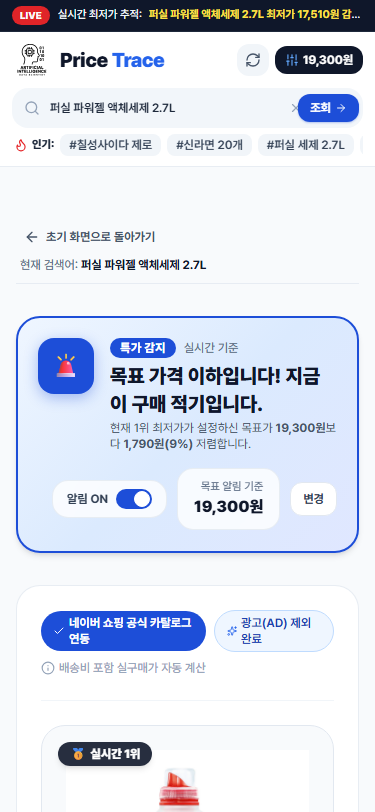
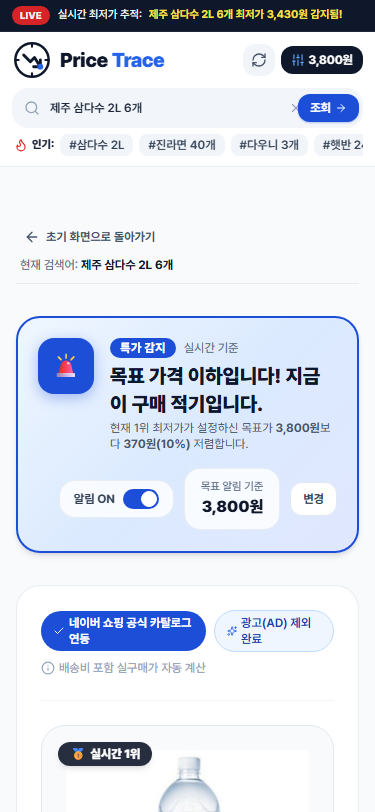
design: 헤더 및 푸터 브랜드 로고를 직관적인 단순화 레이더·최저가 화살표 심볼로 교체
- 복잡한 AI 두뇌/칩셋 아이콘을 '최저가 추적' 정체성에 맞춘 미니멀 레이더 심볼로 전면 교체
- 절제된 4방위 조준 틱, 볼드한 가격 급락 트렌드 화살표, 실시간 최저가 포착 블루 도트 적용
- 헤더 및 푸터 인라인 SVG 벡터 동기화 및 33개 E2E QA 전수 검사 100% 통과 검증

diff --git a/public/index.html b/public/index.html
@@ -85,9 +85,20 @@
       <!-- 상단 줄: [브랜드 로고] + [모바일 전용 우측 컨트롤 버튼들] -->
       <div class="flex items-center justify-between w-full md:w-auto shrink-0">
         <a href="/" class="flex items-center space-x-2 sm:space-x-3 group shrink-0">
-          <svg xmlns="http://www.w3.org/2000/svg" viewBox="0 0 2048 2048" class="w-10 h-10 sm:w-12 sm:h-12 md:w-14 md:h-14 object-contain group-hover:scale-105 transition-transform shrink-0" fill="#000000">
-  <path fillRule="evenodd" clipRule="evenodd" d="M1033.0 1256.5L1021.0 1254.5L1015.5 1250.0L1013.5 1246.0L1013.5 1228.0L1021.5 1186.0L1029.5 1158.0L1039.5 1136.0L1048.5 1123.0L1063.0 1109.5L1082.0 1099.5L1104.0 1094.5L1137.0 1095.5L1196.0 1101.5L1246.0 1101.5L1267.0 1094.5L1277.5 1085.0L1284.5 1071.0L1286.5 1056.0L1279.5 1015.0L1279.5 1003.0L1285.5 987.0L1298.5 971.0L1303.5 961.0L1301.5 951.0L1291.5 935.0L1291.5 929.0L1298.0 921.5L1306.0 916.5L1315.5 906.0L1314.5 900.0L1302.5 871.0L1301.5 861.0L1304.5 850.0L1314.0 838.5L1323.0 832.5L1347.0 823.5L1363.0 819.5L1373.0 814.5L1379.5 807.0L1380.5 800.0L1374.5 786.0L1350.5 750.0L1304.5 674.0L1289.5 643.0L1285.5 622.0L1286.5 601.0L1289.5 582.0L1289.5 541.0L1281.5 494.0L1273.5 467.0L1262.5 439.0L1251.5 417.0L1230.5 383.0L1210.5 358.0L1190.0 336.5L1152.0 306.5L1113.0 283.5L1075.0 267.5L1038.0 255.5L993.0 246.5L965.0 243.5L902.0 243.5L879.0 245.5L832.0 253.5L794.0 263.5L764.0 274.5L735.0 287.5L709.0 301.5L668.0 329.5L655.0 340.5L625.5 370.0L603.5 398.0L589.5 420.0L571.5 454.0L561.5 478.0L549.5 518.0L541.5 574.0L541.5 642.0L545.5 677.0L549.5 695.0L561.5 734.0L581.5 778.0L600.5 810.0L635.5 860.0L649.5 883.0L661.5 908.0L671.5 940.0L675.5 963.0L677.5 993.0L673.5 1047.0L671.5 1053.0L671.5 1063.0L663.5 1108.0L643.5 1185.0L625.5 1240.0L621.5 1248.0L613.0 1255.5L595.0 1255.5L585.5 1248.0L583.5 1243.0L585.5 1230.0L606.5 1169.0L627.5 1085.0L635.5 1034.0L636.5 984.0L629.5 940.0L621.5 917.0L606.5 889.0L565.5 830.0L546.5 798.0L530.5 765.0L512.5 713.0L503.5 669.0L500.5 631.0L501.5 565.0L505.5 534.0L511.5 505.0L517.5 483.0L532.5 442.0L541.5 423.0L559.5 392.0L572.5 373.0L597.5 342.0L633.0 306.5L657.0 287.5L685.0 268.5L726.0 246.5L772.0 227.5L813.0 215.5L837.0 210.5L889.0 203.5L945.0 202.5L1000.0 206.5L1056.0 218.5L1103.0 234.5L1145.0 255.5L1192.0 286.5L1231.5 322.0L1257.5 353.0L1274.5 377.0L1291.5 407.0L1306.5 440.0L1319.5 479.0L1327.5 518.0L1327.5 529.0L1329.5 539.0L1329.5 584.0L1327.5 595.0L1328.5 631.0L1338.5 655.0L1391.5 743.0L1401.5 757.0L1416.5 785.0L1419.5 795.0L1419.5 810.0L1417.5 818.0L1407.5 836.0L1399.0 844.5L1389.0 850.5L1356.0 861.5L1347.5 868.0L1346.5 873.0L1355.5 901.0L1355.5 911.0L1349.5 926.0L1339.5 937.0L1345.5 955.0L1343.5 971.0L1336.5 985.0L1323.5 1002.0L1320.5 1010.0L1321.5 1030.0L1324.5 1042.0L1324.5 1069.0L1318.5 1092.0L1307.5 1111.0L1298.0 1120.5L1284.0 1130.5L1269.0 1137.5L1245.0 1143.5L1202.0 1143.5L1195.0 1141.5L1162.0 1139.5L1124.0 1134.5L1099.0 1135.5L1091.0 1138.5L1079.5 1148.0L1073.5 1157.0L1065.5 1174.0L1057.5 1203.0L1050.5 1245.0L1043.0 1254.5L1033.0 1256.5Z M1470.0 479.5L1453.0 479.5L1439.0 475.5L1431.0 470.5L1418.5 456.0L1413.5 444.0L1411.5 434.0L1411.5 374.0L1413.5 363.0L1417.5 353.0L1426.5 340.0L1438.0 331.5L1449.0 327.5L1473.0 327.5L1486.0 332.5L1500.5 345.0L1505.5 354.0L1509.5 367.0L1510.5 428.0L1508.5 444.0L1500.5 461.0L1490.0 471.5L1483.0 475.5L1470.0 479.5Z M1609.0 475.5L1589.0 475.5L1583.5 471.0L1583.5 368.0L1581.0 367.5L1564.0 377.5L1560.0 376.5L1555.5 370.0L1556.5 347.0L1591.0 327.5L1609.0 328.5L1613.5 332.0L1615.5 337.0L1615.5 470.0L1613.0 473.5L1609.0 475.5Z M1465.5 448.0L1470.0 446.5L1473.5 443.0L1477.5 430.0L1477.5 373.0L1472.5 361.0L1466.0 356.5L1461.0 355.5L1452.0 358.5L1445.5 369.0L1444.5 427.0L1445.5 436.0L1449.0 442.5L1455.0 447.5L1465.5 448.0Z M994.0 869.5L982.0 866.5L975.5 860.0L973.5 855.0L973.5 791.0L972.0 789.5L928.0 789.5L926.5 791.0L926.5 854.0L924.5 860.0L918.0 866.5L910.0 869.5L904.0 869.5L895.0 865.5L890.5 861.0L888.5 856.0L887.5 791.0L886.0 789.5L842.0 789.5L841.5 855.0L837.5 862.0L831.0 867.5L825.0 869.5L815.0 868.5L810.5 866.0L803.5 857.0L803.0 790.5L768.0 789.5L756.0 785.5L745.0 778.5L736.5 770.0L727.5 753.0L725.5 743.0L725.0 716.5L667.0 716.5L658.0 713.5L650.5 705.0L650.5 690.0L653.5 685.0L661.0 679.5L725.5 678.0L725.0 634.5L661.0 633.5L654.5 629.0L650.5 622.0L649.5 610.0L652.5 603.0L663.0 594.5L725.0 594.5L726.5 558.0L726.5 550.0L725.0 548.5L668.0 549.5L660.0 547.5L655.5 544.0L650.5 536.0L650.5 522.0L658.0 512.5L665.0 509.5L725.0 509.5L727.5 477.0L733.5 463.0L745.0 449.5L763.0 439.5L773.0 437.5L801.0 437.5L801.5 374.0L803.5 370.0L811.0 362.5L815.0 360.5L828.0 360.5L834.0 363.5L840.5 372.0L842.0 437.5L887.5 437.0L887.5 374.0L890.5 368.0L895.0 363.5L904.0 359.5L913.0 360.5L918.0 363.5L923.5 369.0L925.5 374.0L925.5 437.0L971.0 437.5L973.5 371.0L979.0 364.5L986.0 360.5L995.0 359.5L1001.0 361.5L1009.5 369.0L1011.5 375.0L1011.5 437.0L1013.0 438.5L1032.0 437.5L1050.0 440.5L1059.0 444.5L1069.0 451.5L1078.5 462.0L1084.5 473.0L1087.5 483.0L1089.0 509.5L1145.0 509.5L1153.0 512.5L1159.5 520.0L1161.5 526.0L1160.5 536.0L1156.5 542.0L1150.0 547.5L1142.0 549.5L1088.5 549.0L1089.0 594.5L1148.0 594.5L1157.5 602.0L1161.5 611.0L1161.5 617.0L1158.5 625.0L1149.0 633.5L1089.0 633.5L1088.5 678.0L1152.0 679.5L1160.5 687.0L1162.5 691.0L1162.5 704.0L1154.0 714.5L1149.0 716.5L1089.0 715.5L1087.5 717.0L1088.5 732.0L1085.5 753.0L1079.5 765.0L1067.0 778.5L1055.0 785.5L1041.0 789.5L1013.0 789.5L1011.5 791.0L1011.5 856.0L1003.0 866.5L994.0 869.5Z M1030.5 753.0L1038.0 751.5L1043.0 748.5L1047.5 740.0L1047.5 489.0L1043.5 481.0L1035.0 475.5L776.0 475.5L772.0 477.5L765.5 485.0L764.5 497.0L764.5 682.0L766.5 745.0L773.0 751.5L781.0 753.5L1030.5 753.0Z M967.0 716.5L846.0 716.5L839.0 715.5L830.0 711.5L814.5 698.0L808.5 687.0L805.5 676.0L805.5 557.0L811.5 540.0L825.0 524.5L836.0 518.5L848.0 515.5L963.0 515.5L973.0 517.5L984.0 522.5L992.0 528.5L999.5 537.0L1007.5 555.0L1007.5 678.0L1001.5 693.0L991.0 705.5L977.0 714.5L967.0 716.5Z M1597.0 673.5L1582.0 673.5L1573.0 671.5L1559.0 663.5L1552.5 657.0L1545.5 644.0L1542.5 635.0L1540.5 619.0L1540.5 574.0L1541.5 562.0L1546.5 545.0L1552.5 535.0L1563.0 525.5L1578.0 519.5L1587.0 518.5L1601.0 519.5L1610.0 522.5L1620.0 528.5L1630.5 541.0L1635.5 553.0L1637.5 563.0L1637.5 626.0L1633.5 643.0L1626.5 656.0L1617.0 665.5L1606.0 671.5L1597.0 673.5Z M1477.0 667.5L1455.0 667.5L1452.5 666.0L1449.5 660.0L1449.5 561.0L1429.0 571.5L1426.0 570.5L1421.5 564.0L1421.5 544.0L1426.0 539.5L1441.0 530.5L1459.0 521.5L1464.0 520.5L1472.0 520.5L1477.0 522.5L1480.5 526.0L1482.5 531.0L1482.5 660.0L1480.5 665.0L1477.0 667.5Z M1592.5 643.0L1598.0 641.5L1602.5 637.0L1605.5 629.0L1606.5 570.0L1605.5 562.0L1600.5 552.0L1594.0 548.5L1586.0 548.5L1579.5 552.0L1574.5 563.0L1573.5 621.0L1577.5 637.0L1584.0 642.5L1592.5 643.0Z M901.5 679.0L962.0 678.5L968.5 672.0L969.5 564.0L966.5 557.0L962.0 552.5L853.0 551.5L848.0 553.5L844.5 558.0L844.5 673.0L850.0 678.5L857.0 679.5L901.5 679.0Z M1605.0 876.5L1581.0 875.5L1564.0 866.5L1557.5 860.0L1551.5 849.0L1546.5 824.0L1546.5 773.0L1551.5 750.0L1556.5 741.0L1567.0 730.5L1578.0 724.5L1591.0 721.5L1612.0 723.5L1626.0 730.5L1638.5 745.0L1643.5 757.0L1645.5 768.0L1645.5 832.0L1642.5 845.0L1636.5 857.0L1628.0 866.5L1616.0 873.5L1605.0 876.5Z M1507.0 870.5L1488.0 869.5L1483.5 864.0L1483.5 764.0L1482.0 763.5L1479.0 766.5L1465.0 772.5L1462.0 772.5L1457.5 767.0L1457.5 744.0L1461.0 740.5L1482.0 728.5L1497.0 722.5L1510.0 724.5L1515.5 732.0L1516.5 739.0L1516.5 860.0L1515.5 866.0L1512.0 869.5L1507.0 870.5Z M1600.5 845.0L1607.5 841.0L1611.5 833.0L1612.5 770.0L1610.5 761.0L1605.0 753.5L1601.0 751.5L1592.0 751.5L1584.5 757.0L1580.5 767.0L1579.5 823.0L1581.5 834.0L1584.5 840.0L1588.0 843.5L1593.0 845.5L1600.5 845.0Z M1468.0 1080.5L1452.0 1079.5L1434.0 1070.5L1426.5 1063.0L1420.5 1052.0L1415.5 1029.0L1415.5 984.0L1417.5 964.0L1420.5 954.0L1425.5 945.0L1434.0 935.5L1448.0 927.5L1456.0 925.5L1476.0 925.5L1483.0 927.5L1497.0 935.5L1504.5 944.0L1510.5 955.0L1514.5 973.0L1514.5 1032.0L1509.5 1053.0L1503.5 1063.0L1492.0 1073.5L1481.0 1078.5L1468.0 1080.5Z M1605.0 1074.5L1590.0 1074.5L1586.0 1073.5L1581.5 1069.0L1581.5 967.0L1580.0 966.5L1573.0 971.5L1560.0 977.5L1555.5 974.0L1553.5 969.0L1554.5 947.0L1566.0 938.5L1592.0 925.5L1604.0 925.5L1608.0 927.5L1613.5 935.0L1613.5 1069.0L1609.0 1073.5L1605.0 1074.5Z M1470.5 1049.0L1478.5 1043.0L1481.5 1033.0L1481.5 972.0L1477.5 962.0L1474.0 958.5L1469.0 956.5L1462.0 956.5L1455.5 959.0L1449.5 971.0L1449.5 1038.0L1452.5 1044.0L1457.0 1048.5L1470.5 1049.0Z M1208.0 1483.5L1179.0 1483.5L1165.0 1479.5L1151.0 1471.5L1138.5 1460.0L1132.5 1451.0L1126.5 1439.0L1121.5 1420.0L1121.5 1388.0L1123.5 1377.0L1134.5 1353.0L1149.0 1337.5L1155.0 1333.5L1165.0 1328.5L1184.0 1323.5L1204.0 1323.5L1219.0 1327.5L1231.0 1333.5L1245.5 1347.0L1251.5 1356.0L1257.5 1374.0L1257.5 1379.0L1256.0 1380.5L1237.0 1385.5L1227.0 1385.5L1219.5 1368.0L1211.0 1359.5L1202.0 1355.5L1186.0 1355.5L1176.0 1359.5L1168.5 1367.0L1163.5 1376.0L1159.5 1389.0L1159.5 1416.0L1164.5 1433.0L1175.0 1445.5L1187.0 1450.5L1204.0 1449.5L1214.5 1443.0L1220.5 1434.0L1225.0 1422.5L1238.0 1423.5L1255.0 1427.5L1259.5 1430.0L1255.5 1446.0L1243.5 1465.0L1230.0 1475.5L1222.0 1479.5L1208.0 1483.5Z M577.0 1481.5L546.0 1480.5L539.5 1467.0L533.5 1447.0L531.0 1444.5L486.0 1445.5L473.5 1479.0L471.0 1481.5L442.0 1481.5L436.5 1479.0L447.5 1444.0L451.5 1436.0L487.5 1334.0L492.0 1325.5L526.0 1325.5L527.5 1327.0L581.5 1476.0L581.5 1480.0L577.0 1481.5Z M716.0 1481.5L684.0 1481.5L678.5 1475.0L654.5 1429.0L650.0 1426.5L637.5 1428.0L637.5 1479.0L633.0 1481.5L605.0 1481.5L601.5 1480.0L601.5 1328.0L604.0 1325.5L667.0 1325.5L670.0 1327.5L682.0 1329.5L692.0 1334.5L700.0 1340.5L705.5 1347.0L711.5 1359.0L713.5 1368.0L712.5 1388.0L709.5 1397.0L704.5 1405.0L695.0 1414.5L689.0 1417.5L687.5 1421.0L719.5 1476.0L720.5 1479.0L716.0 1481.5Z M799.0 1481.5L776.0 1481.5L769.5 1479.0L769.5 1361.0L725.0 1359.5L724.5 1328.0L727.0 1325.5L844.0 1325.5L846.5 1329.0L847.5 1356.0L845.0 1360.5L804.5 1361.0L804.5 1479.0L799.0 1481.5Z M901.0 1481.5L875.0 1481.5L869.5 1478.0L869.5 1331.0L870.5 1327.0L873.0 1325.5L903.0 1325.5L904.5 1327.0L905.5 1478.0L904.0 1480.5L901.0 1481.5Z M968.0 1481.5L945.0 1481.5L940.0 1480.5L937.5 1478.0L938.5 1327.0L941.0 1325.5L1035.0 1325.5L1036.5 1329.0L1036.5 1358.0L1035.0 1359.5L973.5 1361.0L973.5 1389.0L1027.0 1389.5L1029.5 1395.0L1029.5 1418.0L1028.0 1421.5L973.5 1422.0L973.5 1479.0L968.0 1481.5Z M1091.0 1481.5L1066.0 1481.5L1061.5 1478.0L1061.5 1329.0L1064.0 1325.5L1094.0 1325.5L1095.5 1329.0L1095.5 1478.0L1094.0 1480.5L1091.0 1481.5Z M1315.0 1481.5L1289.0 1481.5L1286.0 1480.5L1284.5 1478.0L1284.5 1328.0L1287.0 1325.5L1317.0 1325.5L1319.5 1331.0L1319.5 1476.0L1318.5 1479.0L1315.0 1481.5Z M1480.0 1481.5L1451.0 1480.5L1445.5 1469.0L1438.0 1445.5L1391.0 1445.5L1388.5 1449.0L1379.5 1476.0L1375.0 1481.5L1353.0 1481.5L1344.0 1480.5L1341.5 1478.0L1392.5 1335.0L1398.0 1325.5L1431.0 1325.5L1432.5 1327.0L1486.5 1476.0L1485.0 1480.5L1480.0 1481.5Z M1599.0 1481.5L1512.0 1481.5L1505.5 1479.0L1505.5 1329.0L1507.0 1326.5L1540.5 1326.0L1541.5 1449.0L1604.0 1449.5L1605.5 1453.0L1604.5 1479.0L1599.0 1481.5Z M647.5 1394.0L666.0 1393.5L671.0 1391.5L676.5 1386.0L678.5 1373.0L677.5 1369.0L671.0 1361.5L662.0 1359.5L639.0 1359.5L637.5 1361.0L637.5 1393.0L647.5 1394.0Z M521.5 1415.0L522.5 1414.0L509.0 1374.5L495.5 1411.0L495.5 1415.0L521.5 1415.0Z M1428.5 1415.0L1415.5 1375.0L1414.0 1374.5L1400.5 1415.0L1428.5 1415.0Z M1135.0 1683.5L1110.0 1683.5L1093.0 1678.5L1079.0 1670.5L1063.5 1654.0L1057.5 1643.0L1051.5 1625.0L1049.5 1599.0L1051.5 1592.0L1051.5 1584.0L1057.5 1566.0L1063.5 1556.0L1077.0 1541.5L1094.0 1531.5L1106.0 1527.5L1138.0 1527.5L1153.0 1532.5L1160.0 1536.5L1174.5 1550.0L1178.5 1556.0L1183.5 1568.0L1184.5 1577.0L1175.0 1581.5L1160.0 1585.5L1153.0 1585.5L1145.5 1570.0L1134.0 1560.5L1117.0 1558.5L1107.0 1561.5L1101.0 1565.5L1094.5 1573.0L1089.5 1584.0L1087.5 1592.0L1087.5 1613.0L1089.5 1623.0L1095.5 1636.0L1104.0 1645.5L1119.0 1651.5L1135.0 1650.5L1142.0 1647.5L1148.5 1641.0L1153.5 1629.0L1144.0 1627.5L1121.0 1627.5L1119.5 1626.0L1120.0 1595.5L1187.0 1594.5L1191.5 1597.0L1190.5 1626.0L1181.5 1651.0L1175.5 1660.0L1163.0 1671.5L1149.0 1679.5L1135.0 1683.5Z M1577.0 1683.5L1553.0 1683.5L1549.0 1681.5L1544.0 1681.5L1533.0 1677.5L1521.0 1670.5L1510.5 1661.0L1504.5 1653.0L1497.5 1638.0L1493.5 1622.0L1493.5 1590.0L1498.5 1572.0L1504.5 1559.0L1511.5 1550.0L1523.0 1539.5L1537.0 1531.5L1551.0 1527.5L1579.0 1527.5L1599.0 1535.5L1614.5 1549.0L1627.5 1575.0L1627.5 1577.0L1624.0 1579.5L1604.0 1585.5L1595.0 1586.5L1588.5 1571.0L1580.0 1562.5L1573.0 1559.5L1564.0 1558.5L1555.0 1559.5L1545.0 1564.5L1539.5 1570.0L1533.5 1581.0L1529.5 1602.0L1531.5 1622.0L1536.5 1636.0L1540.5 1642.0L1546.0 1646.5L1559.0 1651.5L1571.0 1651.5L1577.0 1649.5L1583.0 1646.5L1587.5 1642.0L1593.5 1628.0L1596.0 1625.5L1622.0 1629.5L1629.5 1634.0L1626.5 1645.0L1621.5 1655.0L1610.0 1668.5L1592.0 1679.5L1577.0 1683.5Z M311.0 1681.5L284.0 1681.5L281.5 1680.0L280.5 1584.0L281.5 1531.0L284.0 1529.5L311.0 1529.5L314.5 1532.0L315.5 1676.0L314.5 1680.0L311.0 1681.5Z M466.0 1681.5L440.0 1681.5L434.5 1676.0L378.0 1590.5L376.5 1680.0L374.0 1681.5L347.0 1681.5L345.5 1680.0L345.0 1530.5L375.0 1530.5L435.0 1616.5L435.5 1533.0L439.0 1529.5L466.0 1529.5L468.5 1531.0L469.5 1678.0L466.0 1681.5Z M563.0 1681.5L535.0 1681.5L531.5 1677.0L531.5 1561.0L491.0 1560.5L489.5 1558.0L489.5 1534.0L490.5 1531.0L493.0 1529.5L604.0 1529.5L606.5 1531.0L607.5 1557.0L605.0 1560.5L568.0 1560.5L566.5 1562.0L566.5 1679.0L563.0 1681.5Z M726.0 1681.5L631.0 1681.5L628.5 1680.0L627.5 1533.0L630.0 1529.5L722.0 1529.5L726.5 1533.0L726.5 1558.0L725.0 1560.5L663.5 1561.0L664.0 1589.5L721.0 1589.5L722.5 1595.0L722.5 1616.0L721.0 1618.5L664.0 1619.5L663.5 1649.0L728.0 1650.5L729.5 1655.0L729.5 1676.0L726.0 1681.5Z M847.0 1681.5L758.0 1681.5L753.5 1679.0L753.5 1532.0L755.0 1530.5L784.0 1529.5L788.5 1532.0L789.5 1649.0L851.0 1650.5L852.5 1652.0L852.5 1677.0L850.0 1680.5L847.0 1681.5Z M968.0 1681.5L875.0 1681.5L872.5 1679.0L872.5 1532.0L874.0 1530.5L902.0 1529.5L906.0 1530.5L907.5 1533.0L907.5 1649.0L970.0 1650.5L971.5 1669.0L970.5 1679.0L968.0 1681.5Z M1024.0 1681.5L995.0 1681.5L992.5 1679.0L991.5 1675.0L992.5 1532.0L996.0 1529.5L1022.0 1529.5L1026.5 1531.0L1027.5 1678.0L1024.0 1681.5Z M1313.0 1681.5L1218.0 1681.5L1214.5 1680.0L1213.5 1538.0L1215.0 1530.5L1313.0 1529.5L1315.5 1532.0L1316.5 1558.0L1315.0 1560.5L1251.0 1560.5L1249.5 1562.0L1251.0 1589.5L1308.0 1589.5L1309.5 1591.0L1309.5 1616.0L1308.0 1618.5L1250.0 1619.5L1250.5 1649.0L1314.0 1649.5L1316.5 1652.0L1316.5 1676.0L1315.5 1680.0L1313.0 1681.5Z M1467.0 1681.5L1441.0 1681.5L1436.5 1677.0L1378.0 1587.5L1376.5 1588.0L1376.5 1680.0L1374.0 1681.5L1347.0 1681.5L1343.5 1679.0L1344.0 1530.5L1375.0 1529.5L1382.5 1538.0L1437.0 1618.5L1437.5 1531.0L1439.0 1529.5L1468.0 1529.5L1470.5 1531.0L1471.5 1678.0L1467.0 1681.5Z M1749.0 1681.5L1657.0 1681.5L1653.5 1679.0L1653.5 1533.0L1655.0 1530.5L1751.0 1529.5L1752.5 1531.0L1753.5 1558.0L1752.0 1560.5L1691.0 1560.5L1689.5 1562.0L1690.0 1589.5L1746.0 1589.5L1747.5 1597.0L1747.5 1615.0L1745.0 1618.5L1690.0 1619.5L1689.5 1649.0L1753.0 1650.5L1753.5 1679.0L1749.0 1681.5Z M897.0 1823.5L885.0 1822.5L873.0 1817.5L866.5 1810.0L862.5 1800.0L863.0 1796.5L877.0 1794.5L879.5 1802.0L885.0 1807.5L891.0 1809.5L902.0 1808.5L909.5 1801.0L909.5 1796.0L906.0 1792.5L899.0 1789.5L884.0 1786.5L875.0 1782.5L868.5 1776.0L865.5 1770.0L865.5 1759.0L869.5 1751.0L875.0 1746.5L886.0 1742.5L901.0 1742.5L912.0 1746.5L917.5 1751.0L922.5 1761.0L922.0 1766.5L908.0 1766.5L902.0 1757.5L895.0 1755.5L886.0 1756.5L880.5 1761.0L880.5 1766.0L884.0 1769.5L900.0 1773.5L915.0 1779.5L920.5 1784.0L924.5 1791.0L925.5 1801.0L920.5 1813.0L916.0 1817.5L908.0 1821.5L897.0 1823.5Z M1005.0 1823.5L994.0 1822.5L983.0 1817.5L972.5 1806.0L967.5 1791.0L968.5 1770.0L973.5 1758.0L982.0 1748.5L997.0 1742.5L1010.0 1742.5L1021.0 1746.5L1030.5 1755.0L1034.5 1763.0L1031.0 1766.5L1020.0 1768.5L1015.5 1761.0L1011.0 1757.5L1000.0 1755.5L991.0 1759.5L985.5 1768.0L983.5 1775.0L984.5 1795.0L986.5 1800.0L992.0 1806.5L999.0 1809.5L1009.0 1808.5L1016.5 1802.0L1020.0 1793.5L1034.5 1798.0L1031.5 1807.0L1021.0 1818.5L1015.0 1821.5L1005.0 1823.5Z M1548.0 1823.5L1535.0 1822.5L1523.0 1817.5L1517.5 1812.0L1512.5 1800.0L1513.0 1796.5L1527.0 1794.5L1529.5 1802.0L1535.0 1807.5L1541.0 1809.5L1552.0 1808.5L1559.5 1801.0L1559.5 1797.0L1556.0 1792.5L1534.0 1786.5L1525.0 1782.5L1518.5 1776.0L1515.5 1770.0L1515.5 1759.0L1519.5 1751.0L1525.0 1746.5L1536.0 1742.5L1551.0 1742.5L1562.0 1746.5L1567.5 1751.0L1572.5 1761.0L1572.0 1766.5L1558.0 1766.5L1552.0 1757.5L1545.0 1755.5L1536.0 1756.5L1530.5 1761.0L1530.5 1766.0L1534.0 1769.5L1556.0 1775.5L1567.0 1780.5L1574.5 1791.0L1575.5 1802.0L1570.5 1813.0L1561.0 1820.5L1548.0 1823.5Z M409.0 1821.5L378.0 1821.5L376.5 1820.0L377.0 1744.5L409.0 1743.5L421.0 1745.5L428.0 1749.5L433.5 1755.0L438.5 1764.0L441.5 1785.0L439.5 1798.0L435.5 1807.0L427.0 1816.5L421.0 1819.5L409.0 1821.5Z M555.0 1821.5L540.0 1821.5L534.5 1811.0L533.5 1806.0L531.0 1803.5L502.0 1803.5L494.0 1821.5L480.0 1821.5L478.5 1820.0L506.5 1748.0L510.0 1743.5L524.0 1743.5L525.5 1745.0L555.5 1819.0L555.0 1821.5Z M628.0 1821.5L615.0 1821.5L613.5 1820.0L613.5 1758.0L612.0 1756.5L591.0 1756.5L591.0 1744.5L651.0 1743.5L652.5 1745.0L652.5 1755.0L651.0 1756.5L629.5 1757.0L629.5 1820.0L628.0 1821.5Z M762.0 1821.5L748.0 1821.5L745.5 1819.0L741.5 1806.0L739.0 1803.5L710.0 1803.5L702.0 1821.5L687.5 1821.0L688.5 1815.0L708.5 1763.0L714.5 1748.0L718.0 1743.5L732.0 1743.5L733.5 1745.0L762.5 1817.0L763.5 1820.0L762.0 1821.5Z M1094.0 1821.5L1082.0 1821.5L1079.5 1819.0L1079.5 1746.0L1082.0 1743.5L1094.0 1743.5L1095.5 1745.0L1095.5 1820.0L1094.0 1821.5Z M1200.0 1821.5L1142.5 1821.0L1142.5 1745.0L1144.0 1743.5L1194.0 1743.5L1199.5 1745.0L1199.0 1756.5L1159.0 1756.5L1157.5 1758.0L1158.0 1773.5L1189.0 1773.5L1196.5 1775.0L1196.0 1786.5L1159.0 1786.5L1157.5 1788.0L1157.5 1807.0L1159.0 1808.5L1200.0 1808.5L1201.5 1818.0L1200.0 1821.5Z M1307.0 1821.5L1294.0 1821.5L1290.5 1819.0L1262.0 1772.5L1260.5 1773.0L1260.5 1821.0L1248.0 1821.5L1246.5 1820.0L1247.0 1744.5L1259.0 1743.5L1262.5 1745.0L1292.0 1793.5L1293.5 1793.0L1293.5 1745.0L1295.0 1743.5L1306.0 1743.5L1307.5 1745.0L1307.0 1821.5Z M1388.0 1821.5L1375.0 1821.5L1373.5 1820.0L1373.5 1758.0L1372.0 1756.5L1351.0 1756.5L1350.5 1745.0L1353.0 1743.5L1410.0 1743.5L1412.5 1746.0L1412.5 1755.0L1411.0 1756.5L1389.5 1757.0L1389.5 1820.0L1388.0 1821.5Z M1468.0 1821.5L1455.0 1821.5L1453.5 1819.0L1453.5 1745.0L1455.0 1743.5L1468.0 1743.5L1469.5 1745.0L1469.5 1820.0L1468.0 1821.5Z M1652.0 1821.5L1639.0 1821.5L1637.5 1820.0L1637.5 1758.0L1636.0 1756.5L1615.0 1756.5L1615.0 1744.5L1674.0 1743.5L1675.5 1745.0L1676.5 1755.0L1675.0 1756.5L1653.5 1757.0L1653.5 1820.0L1652.0 1821.5Z M410.5 1808.0L418.0 1805.5L421.5 1802.0L423.5 1797.0L423.5 1768.0L421.5 1764.0L413.0 1757.5L394.0 1756.5L391.5 1758.0L392.5 1808.0L410.5 1808.0Z M526.5 1790.0L520.5 1771.0L517.5 1764.0L516.0 1763.5L506.5 1790.0L526.5 1790.0Z M734.5 1790.0L728.5 1771.0L725.5 1764.0L724.0 1763.5L714.5 1790.0L734.5 1790.0Z" />
-</svg>
+          <svg xmlns="http://www.w3.org/2000/svg" viewBox="0 0 48 48" class="w-10 h-10 sm:w-12 sm:h-12 md:w-14 md:h-14 object-contain group-hover:scale-105 transition-transform shrink-0" fill="none">
+            <!-- 1. 미니멀 볼드 레이더 원형 림 -->
+            <circle cx="24" cy="24" r="20" stroke="#0F172A" stroke-width="3" />
+            <!-- 2. 레이더 외곽 정밀 조준 틱 (절제된 4방위 틱) -->
+            <line x1="24" y1="4" x2="24" y2="8" stroke="#0F172A" stroke-width="2.5" stroke-linecap="round" />
+            <line x1="24" y1="40" x2="24" y2="44" stroke="#0F172A" stroke-width="2.5" stroke-linecap="round" />
+            <line x1="4" y1="24" x2="8" y2="24" stroke="#0F172A" stroke-width="2.5" stroke-linecap="round" />
+            <line x1="40" y1="24" x2="44" y2="24" stroke="#0F172A" stroke-width="2.5" stroke-linecap="round" />
+            <!-- 3. 시원하고 직관적인 가격 급락 트렌드 화살표 (볼드 블랙) -->
+            <path d="M14 18L22 26L27 21L34 32" stroke="#0F172A" stroke-width="3.5" stroke-linecap="round" stroke-linejoin="round" />
+            <polyline points="26 32 34 32 34 24" stroke="#0F172A" stroke-width="3.5" stroke-linecap="round" stroke-linejoin="round" />
+            <!-- 4. 실시간 최저가 록온 포인트 (선명한 코발트 블루) -->
+            <circle cx="34" cy="32" r="3.5" fill="#2563EB" />
+          </svg>
           <div>
             <span class="text-xl sm:text-2xl font-black tracking-tight text-slate-900 flex items-center gap-1 leading-none">
               Price<span class="text-blue-600">Trace</span>
@@ -690,10 +701,21 @@
   <footer class="mt-12 bg-white border-t border-slate-200/80 py-8 text-xs text-slate-500">
     <div class="max-w-7xl mx-auto px-4 sm:px-6 lg:px-8 flex flex-col md:flex-row items-center justify-between gap-6 text-center md:text-left">
       <div class="flex items-center space-x-3 justify-center md:justify-start">
-        <!-- 헤더와 통일된 큼직한 블랙 로고 심볼 -->
-        <svg xmlns="http://www.w3.org/2000/svg" viewBox="0 0 2048 2048" class="w-10 h-10 sm:w-12 sm:h-12 object-contain shrink-0" fill="#000000">
-  <path fillRule="evenodd" clipRule="evenodd" d="M1033.0 1256.5L1021.0 1254.5L1015.5 1250.0L1013.5 1246.0L1013.5 1228.0L1021.5 1186.0L1029.5 1158.0L1039.5 1136.0L1048.5 1123.0L1063.0 1109.5L1082.0 1099.5L1104.0 1094.5L1137.0 1095.5L1196.0 1101.5L1246.0 1101.5L1267.0 1094.5L1277.5 1085.0L1284.5 1071.0L1286.5 1056.0L1279.5 1015.0L1279.5 1003.0L1285.5 987.0L1298.5 971.0L1303.5 961.0L1301.5 951.0L1291.5 935.0L1291.5 929.0L1298.0 921.5L1306.0 916.5L1315.5 906.0L1314.5 900.0L1302.5 871.0L1301.5 861.0L1304.5 850.0L1314.0 838.5L1323.0 832.5L1347.0 823.5L1363.0 819.5L1373.0 814.5L1379.5 807.0L1380.5 800.0L1374.5 786.0L1350.5 750.0L1304.5 674.0L1289.5 643.0L1285.5 622.0L1286.5 601.0L1289.5 582.0L1289.5 541.0L1281.5 494.0L1273.5 467.0L1262.5 439.0L1251.5 417.0L1230.5 383.0L1210.5 358.0L1190.0 336.5L1152.0 306.5L1113.0 283.5L1075.0 267.5L1038.0 255.5L993.0 246.5L965.0 243.5L902.0 243.5L879.0 245.5L832.0 253.5L794.0 263.5L764.0 274.5L735.0 287.5L709.0 301.5L668.0 329.5L655.0 340.5L625.5 370.0L603.5 398.0L589.5 420.0L571.5 454.0L561.5 478.0L549.5 518.0L541.5 574.0L541.5 642.0L545.5 677.0L549.5 695.0L561.5 734.0L581.5 778.0L600.5 810.0L635.5 860.0L649.5 883.0L661.5 908.0L671.5 940.0L675.5 963.0L677.5 993.0L673.5 1047.0L671.5 1053.0L671.5 1063.0L663.5 1108.0L643.5 1185.0L625.5 1240.0L621.5 1248.0L613.0 1255.5L595.0 1255.5L585.5 1248.0L583.5 1243.0L585.5 1230.0L606.5 1169.0L627.5 1085.0L635.5 1034.0L636.5 984.0L629.5 940.0L621.5 917.0L606.5 889.0L565.5 830.0L546.5 798.0L530.5 765.0L512.5 713.0L503.5 669.0L500.5 631.0L501.5 565.0L505.5 534.0L511.5 505.0L517.5 483.0L532.5 442.0L541.5 423.0L559.5 392.0L572.5 373.0L597.5 342.0L633.0 306.5L657.0 287.5L685.0 268.5L726.0 246.5L772.0 227.5L813.0 215.5L837.0 210.5L889.0 203.5L945.0 202.5L1000.0 206.5L1056.0 218.5L1103.0 234.5L1145.0 255.5L1192.0 286.5L1231.5 322.0L1257.5 353.0L1274.5 377.0L1291.5 407.0L1306.5 440.0L1319.5 479.0L1327.5 518.0L1327.5 529.0L1329.5 539.0L1329.5 584.0L1327.5 595.0L1328.5 631.0L1338.5 655.0L1391.5 743.0L1401.5 757.0L1416.5 785.0L1419.5 795.0L1419.5 810.0L1417.5 818.0L1407.5 836.0L1399.0 844.5L1389.0 850.5L1356.0 861.5L1347.5 868.0L1346.5 873.0L1355.5 901.0L1355.5 911.0L1349.5 926.0L1339.5 937.0L1345.5 955.0L1343.5 971.0L1336.5 985.0L1323.5 1002.0L1320.5 1010.0L1321.5 1030.0L1324.5 1042.0L1324.5 1069.0L1318.5 1092.0L1307.5 1111.0L1298.0 1120.5L1284.0 1130.5L1269.0 1137.5L1245.0 1143.5L1202.0 1143.5L1195.0 1141.5L1162.0 1139.5L1124.0 1134.5L1099.0 1135.5L1091.0 1138.5L1079.5 1148.0L1073.5 1157.0L1065.5 1174.0L1057.5 1203.0L1050.5 1245.0L1043.0 1254.5L1033.0 1256.5Z M1470.0 479.5L1453.0 479.5L1439.0 475.5L1431.0 470.5L1418.5 456.0L1413.5 444.0L1411.5 434.0L1411.5 374.0L1413.5 363.0L1417.5 353.0L1426.5 340.0L1438.0 331.5L1449.0 327.5L1473.0 327.5L1486.0 332.5L1500.5 345.0L1505.5 354.0L1509.5 367.0L1510.5 428.0L1508.5 444.0L1500.5 461.0L1490.0 471.5L1483.0 475.5L1470.0 479.5Z M1609.0 475.5L1589.0 475.5L1583.5 471.0L1583.5 368.0L1581.0 367.5L1564.0 377.5L1560.0 376.5L1555.5 370.0L1556.5 347.0L1591.0 327.5L1609.0 328.5L1613.5 332.0L1615.5 337.0L1615.5 470.0L1613.0 473.5L1609.0 475.5Z M1465.5 448.0L1470.0 446.5L1473.5 443.0L1477.5 430.0L1477.5 373.0L1472.5 361.0L1466.0 356.5L1461.0 355.5L1452.0 358.5L1445.5 369.0L1444.5 427.0L1445.5 436.0L1449.0 442.5L1455.0 447.5L1465.5 448.0Z M994.0 869.5L982.0 866.5L975.5 860.0L973.5 855.0L973.5 791.0L972.0 789.5L928.0 789.5L926.5 791.0L926.5 854.0L924.5 860.0L918.0 866.5L910.0 869.5L904.0 869.5L895.0 865.5L890.5 861.0L888.5 856.0L887.5 791.0L886.0 789.5L842.0 789.5L841.5 855.0L837.5 862.0L831.0 867.5L825.0 869.5L815.0 868.5L810.5 866.0L803.5 857.0L803.0 790.5L768.0 789.5L756.0 785.5L745.0 778.5L736.5 770.0L727.5 753.0L725.5 743.0L725.0 716.5L667.0 716.5L658.0 713.5L650.5 705.0L650.5 690.0L653.5 685.0L661.0 679.5L725.5 678.0L725.0 634.5L661.0 633.5L654.5 629.0L650.5 622.0L649.5 610.0L652.5 603.0L663.0 594.5L725.0 594.5L726.5 558.0L726.5 550.0L725.0 548.5L668.0 549.5L660.0 547.5L655.5 544.0L650.5 536.0L650.5 522.0L658.0 512.5L665.0 509.5L725.0 509.5L727.5 477.0L733.5 463.0L745.0 449.5L763.0 439.5L773.0 437.5L801.0 437.5L801.5 374.0L803.5 370.0L811.0 362.5L815.0 360.5L828.0 360.5L834.0 363.5L840.5 372.0L842.0 437.5L887.5 437.0L887.5 374.0L890.5 368.0L895.0 363.5L904.0 359.5L913.0 360.5L918.0 363.5L923.5 369.0L925.5 374.0L925.5 437.0L971.0 437.5L973.5 371.0L979.0 364.5L986.0 360.5L995.0 359.5L1001.0 361.5L1009.5 369.0L1011.5 375.0L1011.5 437.0L1013.0 438.5L1032.0 437.5L1050.0 440.5L1059.0 444.5L1069.0 451.5L1078.5 462.0L1084.5 473.0L1087.5 483.0L1089.0 509.5L1145.0 509.5L1153.0 512.5L1159.5 520.0L1161.5 526.0L1160.5 536.0L1156.5 542.0L1150.0 547.5L1142.0 549.5L1088.5 549.0L1089.0 594.5L1148.0 594.5L1157.5 602.0L1161.5 611.0L1161.5 617.0L1158.5 625.0L1149.0 633.5L1089.0 633.5L1088.5 678.0L1152.0 679.5L1160.5 687.0L1162.5 691.0L1162.5 704.0L1154.0 714.5L1149.0 716.5L1089.0 715.5L1087.5 717.0L1088.5 732.0L1085.5 753.0L1079.5 765.0L1067.0 778.5L1055.0 785.5L1041.0 789.5L1013.0 789.5L1011.5 791.0L1011.5 856.0L1003.0 866.5L994.0 869.5Z M1030.5 753.0L1038.0 751.5L1043.0 748.5L1047.5 740.0L1047.5 489.0L1043.5 481.0L1035.0 475.5L776.0 475.5L772.0 477.5L765.5 485.0L764.5 497.0L764.5 682.0L766.5 745.0L773.0 751.5L781.0 753.5L1030.5 753.0Z M967.0 716.5L846.0 716.5L839.0 715.5L830.0 711.5L814.5 698.0L808.5 687.0L805.5 676.0L805.5 557.0L811.5 540.0L825.0 524.5L836.0 518.5L848.0 515.5L963.0 515.5L973.0 517.5L984.0 522.5L992.0 528.5L999.5 537.0L1007.5 555.0L1007.5 678.0L1001.5 693.0L991.0 705.5L977.0 714.5L967.0 716.5Z M1597.0 673.5L1582.0 673.5L1573.0 671.5L1559.0 663.5L1552.5 657.0L1545.5 644.0L1542.5 635.0L1540.5 619.0L1540.5 574.0L1541.5 562.0L1546.5 545.0L1552.5 535.0L1563.0 525.5L1578.0 519.5L1587.0 518.5L1601.0 519.5L1610.0 522.5L1620.0 528.5L1630.5 541.0L1635.5 553.0L1637.5 563.0L1637.5 626.0L1633.5 643.0L1626.5 656.0L1617.0 665.5L1606.0 671.5L1597.0 673.5Z M1477.0 667.5L1455.0 667.5L1452.5 666.0L1449.5 660.0L1449.5 561.0L1429.0 571.5L1426.0 570.5L1421.5 564.0L1421.5 544.0L1426.0 539.5L1441.0 530.5L1459.0 521.5L1464.0 520.5L1472.0 520.5L1477.0 522.5L1480.5 526.0L1482.5 531.0L1482.5 660.0L1480.5 665.0L1477.0 667.5Z M1592.5 643.0L1598.0 641.5L1602.5 637.0L1605.5 629.0L1606.5 570.0L1605.5 562.0L1600.5 552.0L1594.0 548.5L1586.0 548.5L1579.5 552.0L1574.5 563.0L1573.5 621.0L1577.5 637.0L1584.0 642.5L1592.5 643.0Z M901.5 679.0L962.0 678.5L968.5 672.0L969.5 564.0L966.5 557.0L962.0 552.5L853.0 551.5L848.0 553.5L844.5 558.0L844.5 673.0L850.0 678.5L857.0 679.5L901.5 679.0Z M1605.0 876.5L1581.0 875.5L1564.0 866.5L1557.5 860.0L1551.5 849.0L1546.5 824.0L1546.5 773.0L1551.5 750.0L1556.5 741.0L1567.0 730.5L1578.0 724.5L1591.0 721.5L1612.0 723.5L1626.0 730.5L1638.5 745.0L1643.5 757.0L1645.5 768.0L1645.5 832.0L1642.5 845.0L1636.5 857.0L1628.0 866.5L1616.0 873.5L1605.0 876.5Z M1507.0 870.5L1488.0 869.5L1483.5 864.0L1483.5 764.0L1482.0 763.5L1479.0 766.5L1465.0 772.5L1462.0 772.5L1457.5 767.0L1457.5 744.0L1461.0 740.5L1482.0 728.5L1497.0 722.5L1510.0 724.5L1515.5 732.0L1516.5 739.0L1516.5 860.0L1515.5 866.0L1512.0 869.5L1507.0 870.5Z M1600.5 845.0L1607.5 841.0L1611.5 833.0L1612.5 770.0L1610.5 761.0L1605.0 753.5L1601.0 751.5L1592.0 751.5L1584.5 757.0L1580.5 767.0L1579.5 823.0L1581.5 834.0L1584.5 840.0L1588.0 843.5L1593.0 845.5L1600.5 845.0Z M1468.0 1080.5L1452.0 1079.5L1434.0 1070.5L1426.5 1063.0L1420.5 1052.0L1415.5 1029.0L1415.5 984.0L1417.5 964.0L1420.5 954.0L1425.5 945.0L1434.0 935.5L1448.0 927.5L1456.0 925.5L1476.0 925.5L1483.0 927.5L1497.0 935.5L1504.5 944.0L1510.5 955.0L1514.5 973.0L1514.5 1032.0L1509.5 1053.0L1503.5 1063.0L1492.0 1073.5L1481.0 1078.5L1468.0 1080.5Z M1605.0 1074.5L1590.0 1074.5L1586.0 1073.5L1581.5 1069.0L1581.5 967.0L1580.0 966.5L1573.0 971.5L1560.0 977.5L1555.5 974.0L1553.5 969.0L1554.5 947.0L1566.0 938.5L1592.0 925.5L1604.0 925.5L1608.0 927.5L1613.5 935.0L1613.5 1069.0L1609.0 1073.5L1605.0 1074.5Z M1470.5 1049.0L1478.5 1043.0L1481.5 1033.0L1481.5 972.0L1477.5 962.0L1474.0 958.5L1469.0 956.5L1462.0 956.5L1455.5 959.0L1449.5 971.0L1449.5 1038.0L1452.5 1044.0L1457.0 1048.5L1470.5 1049.0Z M1208.0 1483.5L1179.0 1483.5L1165.0 1479.5L1151.0 1471.5L1138.5 1460.0L1132.5 1451.0L1126.5 1439.0L1121.5 1420.0L1121.5 1388.0L1123.5 1377.0L1134.5 1353.0L1149.0 1337.5L1155.0 1333.5L1165.0 1328.5L1184.0 1323.5L1204.0 1323.5L1219.0 1327.5L1231.0 1333.5L1245.5 1347.0L1251.5 1356.0L1257.5 1374.0L1257.5 1379.0L1256.0 1380.5L1237.0 1385.5L1227.0 1385.5L1219.5 1368.0L1211.0 1359.5L1202.0 1355.5L1186.0 1355.5L1176.0 1359.5L1168.5 1367.0L1163.5 1376.0L1159.5 1389.0L1159.5 1416.0L1164.5 1433.0L1175.0 1445.5L1187.0 1450.5L1204.0 1449.5L1214.5 1443.0L1220.5 1434.0L1225.0 1422.5L1238.0 1423.5L1255.0 1427.5L1259.5 1430.0L1255.5 1446.0L1243.5 1465.0L1230.0 1475.5L1222.0 1479.5L1208.0 1483.5Z M577.0 1481.5L546.0 1480.5L539.5 1467.0L533.5 1447.0L531.0 1444.5L486.0 1445.5L473.5 1479.0L471.0 1481.5L442.0 1481.5L436.5 1479.0L447.5 1444.0L451.5 1436.0L487.5 1334.0L492.0 1325.5L526.0 1325.5L527.5 1327.0L581.5 1476.0L581.5 1480.0L577.0 1481.5Z M716.0 1481.5L684.0 1481.5L678.5 1475.0L654.5 1429.0L650.0 1426.5L637.5 1428.0L637.5 1479.0L633.0 1481.5L605.0 1481.5L601.5 1480.0L601.5 1328.0L604.0 1325.5L667.0 1325.5L670.0 1327.5L682.0 1329.5L692.0 1334.5L700.0 1340.5L705.5 1347.0L711.5 1359.0L713.5 1368.0L712.5 1388.0L709.5 1397.0L704.5 1405.0L695.0 1414.5L689.0 1417.5L687.5 1421.0L719.5 1476.0L720.5 1479.0L716.0 1481.5Z M799.0 1481.5L776.0 1481.5L769.5 1479.0L769.5 1361.0L725.0 1359.5L724.5 1328.0L727.0 1325.5L844.0 1325.5L846.5 1329.0L847.5 1356.0L845.0 1360.5L804.5 1361.0L804.5 1479.0L799.0 1481.5Z M901.0 1481.5L875.0 1481.5L869.5 1478.0L869.5 1331.0L870.5 1327.0L873.0 1325.5L903.0 1325.5L904.5 1327.0L905.5 1478.0L904.0 1480.5L901.0 1481.5Z M968.0 1481.5L945.0 1481.5L940.0 1480.5L937.5 1478.0L938.5 1327.0L941.0 1325.5L1035.0 1325.5L1036.5 1329.0L1036.5 1358.0L1035.0 1359.5L973.5 1361.0L973.5 1389.0L1027.0 1389.5L1029.5 1395.0L1029.5 1418.0L1028.0 1421.5L973.5 1422.0L973.5 1479.0L968.0 1481.5Z M1091.0 1481.5L1066.0 1481.5L1061.5 1478.0L1061.5 1329.0L1064.0 1325.5L1094.0 1325.5L1095.5 1329.0L1095.5 1478.0L1094.0 1480.5L1091.0 1481.5Z M1315.0 1481.5L1289.0 1481.5L1286.0 1480.5L1284.5 1478.0L1284.5 1328.0L1287.0 1325.5L1317.0 1325.5L1319.5 1331.0L1319.5 1476.0L1318.5 1479.0L1315.0 1481.5Z M1480.0 1481.5L1451.0 1480.5L1445.5 1469.0L1438.0 1445.5L1391.0 1445.5L1388.5 1449.0L1379.5 1476.0L1375.0 1481.5L1353.0 1481.5L1344.0 1480.5L1341.5 1478.0L1392.5 1335.0L1398.0 1325.5L1431.0 1325.5L1432.5 1327.0L1486.5 1476.0L1485.0 1480.5L1480.0 1481.5Z M1599.0 1481.5L1512.0 1481.5L1505.5 1479.0L1505.5 1329.0L1507.0 1326.5L1540.5 1326.0L1541.5 1449.0L1604.0 1449.5L1605.5 1453.0L1604.5 1479.0L1599.0 1481.5Z M647.5 1394.0L666.0 1393.5L671.0 1391.5L676.5 1386.0L678.5 1373.0L677.5 1369.0L671.0 1361.5L662.0 1359.5L639.0 1359.5L637.5 1361.0L637.5 1393.0L647.5 1394.0Z M521.5 1415.0L522.5 1414.0L509.0 1374.5L495.5 1411.0L495.5 1415.0L521.5 1415.0Z M1428.5 1415.0L1415.5 1375.0L1414.0 1374.5L1400.5 1415.0L1428.5 1415.0Z M1135.0 1683.5L1110.0 1683.5L1093.0 1678.5L1079.0 1670.5L1063.5 1654.0L1057.5 1643.0L1051.5 1625.0L1049.5 1599.0L1051.5 1592.0L1051.5 1584.0L1057.5 1566.0L1063.5 1556.0L1077.0 1541.5L1094.0 1531.5L1106.0 1527.5L1138.0 1527.5L1153.0 1532.5L1160.0 1536.5L1174.5 1550.0L1178.5 1556.0L1183.5 1568.0L1184.5 1577.0L1175.0 1581.5L1160.0 1585.5L1153.0 1585.5L1145.5 1570.0L1134.0 1560.5L1117.0 1558.5L1107.0 1561.5L1101.0 1565.5L1094.5 1573.0L1089.5 1584.0L1087.5 1592.0L1087.5 1613.0L1089.5 1623.0L1095.5 1636.0L1104.0 1645.5L1119.0 1651.5L1135.0 1650.5L1142.0 1647.5L1148.5 1641.0L1153.5 1629.0L1144.0 1627.5L1121.0 1627.5L1119.5 1626.0L1120.0 1595.5L1187.0 1594.5L1191.5 1597.0L1190.5 1626.0L1181.5 1651.0L1175.5 1660.0L1163.0 1671.5L1149.0 1679.5L1135.0 1683.5Z M1577.0 1683.5L1553.0 1683.5L1549.0 1681.5L1544.0 1681.5L1533.0 1677.5L1521.0 1670.5L1510.5 1661.0L1504.5 1653.0L1497.5 1638.0L1493.5 1622.0L1493.5 1590.0L1498.5 1572.0L1504.5 1559.0L1511.5 1550.0L1523.0 1539.5L1537.0 1531.5L1551.0 1527.5L1579.0 1527.5L1599.0 1535.5L1614.5 1549.0L1627.5 1575.0L1627.5 1577.0L1624.0 1579.5L1604.0 1585.5L1595.0 1586.5L1588.5 1571.0L1580.0 1562.5L1573.0 1559.5L1564.0 1558.5L1555.0 1559.5L1545.0 1564.5L1539.5 1570.0L1533.5 1581.0L1529.5 1602.0L1531.5 1622.0L1536.5 1636.0L1540.5 1642.0L1546.0 1646.5L1559.0 1651.5L1571.0 1651.5L1577.0 1649.5L1583.0 1646.5L1587.5 1642.0L1593.5 1628.0L1596.0 1625.5L1622.0 1629.5L1629.5 1634.0L1626.5 1645.0L1621.5 1655.0L1610.0 1668.5L1592.0 1679.5L1577.0 1683.5Z M311.0 1681.5L284.0 1681.5L281.5 1680.0L280.5 1584.0L281.5 1531.0L284.0 1529.5L311.0 1529.5L314.5 1532.0L315.5 1676.0L314.5 1680.0L311.0 1681.5Z M466.0 1681.5L440.0 1681.5L434.5 1676.0L378.0 1590.5L376.5 1680.0L374.0 1681.5L347.0 1681.5L345.5 1680.0L345.0 1530.5L375.0 1530.5L435.0 1616.5L435.5 1533.0L439.0 1529.5L466.0 1529.5L468.5 1531.0L469.5 1678.0L466.0 1681.5Z M563.0 1681.5L535.0 1681.5L531.5 1677.0L531.5 1561.0L491.0 1560.5L489.5 1558.0L489.5 1534.0L490.5 1531.0L493.0 1529.5L604.0 1529.5L606.5 1531.0L607.5 1557.0L605.0 1560.5L568.0 1560.5L566.5 1562.0L566.5 1679.0L563.0 1681.5Z M726.0 1681.5L631.0 1681.5L628.5 1680.0L627.5 1533.0L630.0 1529.5L722.0 1529.5L726.5 1533.0L726.5 1558.0L725.0 1560.5L663.5 1561.0L664.0 1589.5L721.0 1589.5L722.5 1595.0L722.5 1616.0L721.0 1618.5L664.0 1619.5L663.5 1649.0L728.0 1650.5L729.5 1655.0L729.5 1676.0L726.0 1681.5Z M847.0 1681.5L758.0 1681.5L753.5 1679.0L753.5 1532.0L755.0 1530.5L784.0 1529.5L788.5 1532.0L789.5 1649.0L851.0 1650.5L852.5 1652.0L852.5 1677.0L850.0 1680.5L847.0 1681.5Z M968.0 1681.5L875.0 1681.5L872.5 1679.0L872.5 1532.0L874.0 1530.5L902.0 1529.5L906.0 1530.5L907.5 1533.0L907.5 1649.0L970.0 1650.5L971.5 1669.0L970.5 1679.0L968.0 1681.5Z M1024.0 1681.5L995.0 1681.5L992.5 1679.0L991.5 1675.0L992.5 1532.0L996.0 1529.5L1022.0 1529.5L1026.5 1531.0L1027.5 1678.0L1024.0 1681.5Z M1313.0 1681.5L1218.0 1681.5L1214.5 1680.0L1213.5 1538.0L1215.0 1530.5L1313.0 1529.5L1315.5 1532.0L1316.5 1558.0L1315.0 1560.5L1251.0 1560.5L1249.5 1562.0L1251.0 1589.5L1308.0 1589.5L1309.5 1591.0L1309.5 1616.0L1308.0 1618.5L1250.0 1619.5L1250.5 1649.0L1314.0 1649.5L1316.5 1652.0L1316.5 1676.0L1315.5 1680.0L1313.0 1681.5Z M1467.0 1681.5L1441.0 1681.5L1436.5 1677.0L1378.0 1587.5L1376.5 1588.0L1376.5 1680.0L1374.0 1681.5L1347.0 1681.5L1343.5 1679.0L1344.0 1530.5L1375.0 1529.5L1382.5 1538.0L1437.0 1618.5L1437.5 1531.0L1439.0 1529.5L1468.0 1529.5L1470.5 1531.0L1471.5 1678.0L1467.0 1681.5Z M1749.0 1681.5L1657.0 1681.5L1653.5 1679.0L1653.5 1533.0L1655.0 1530.5L1751.0 1529.5L1752.5 1531.0L1753.5 1558.0L1752.0 1560.5L1691.0 1560.5L1689.5 1562.0L1690.0 1589.5L1746.0 1589.5L1747.5 1597.0L1747.5 1615.0L1745.0 1618.5L1690.0 1619.5L1689.5 1649.0L1753.0 1650.5L1753.5 1679.0L1749.0 1681.5Z M897.0 1823.5L885.0 1822.5L873.0 1817.5L866.5 1810.0L862.5 1800.0L863.0 1796.5L877.0 1794.5L879.5 1802.0L885.0 1807.5L891.0 1809.5L902.0 1808.5L909.5 1801.0L909.5 1796.0L906.0 1792.5L899.0 1789.5L884.0 1786.5L875.0 1782.5L868.5 1776.0L865.5 1770.0L865.5 1759.0L869.5 1751.0L875.0 1746.5L886.0 1742.5L901.0 1742.5L912.0 1746.5L917.5 1751.0L922.5 1761.0L922.0 1766.5L908.0 1766.5L902.0 1757.5L895.0 1755.5L886.0 1756.5L880.5 1761.0L880.5 1766.0L884.0 1769.5L900.0 1773.5L915.0 1779.5L920.5 1784.0L924.5 1791.0L925.5 1801.0L920.5 1813.0L916.0 1817.5L908.0 1821.5L897.0 1823.5Z M1005.0 1823.5L994.0 1822.5L983.0 1817.5L972.5 1806.0L967.5 1791.0L968.5 1770.0L973.5 1758.0L982.0 1748.5L997.0 1742.5L1010.0 1742.5L1021.0 1746.5L1030.5 1755.0L1034.5 1763.0L1031.0 1766.5L1020.0 1768.5L1015.5 1761.0L1011.0 1757.5L1000.0 1755.5L991.0 1759.5L985.5 1768.0L983.5 1775.0L984.5 1795.0L986.5 1800.0L992.0 1806.5L999.0 1809.5L1009.0 1808.5L1016.5 1802.0L1020.0 1793.5L1034.5 1798.0L1031.5 1807.0L1021.0 1818.5L1015.0 1821.5L1005.0 1823.5Z M1548.0 1823.5L1535.0 1822.5L1523.0 1817.5L1517.5 1812.0L1512.5 1800.0L1513.0 1796.5L1527.0 1794.5L1529.5 1802.0L1535.0 1807.5L1541.0 1809.5L1552.0 1808.5L1559.5 1801.0L1559.5 1797.0L1556.0 1792.5L1534.0 1786.5L1525.0 1782.5L1518.5 1776.0L1515.5 1770.0L1515.5 1759.0L1519.5 1751.0L1525.0 1746.5L1536.0 1742.5L1551.0 1742.5L1562.0 1746.5L1567.5 1751.0L1572.5 1761.0L1572.0 1766.5L1558.0 1766.5L1552.0 1757.5L1545.0 1755.5L1536.0 1756.5L1530.5 1761.0L1530.5 1766.0L1534.0 1769.5L1556.0 1775.5L1567.0 1780.5L1574.5 1791.0L1575.5 1802.0L1570.5 1813.0L1561.0 1820.5L1548.0 1823.5Z M409.0 1821.5L378.0 1821.5L376.5 1820.0L377.0 1744.5L409.0 1743.5L421.0 1745.5L428.0 1749.5L433.5 1755.0L438.5 1764.0L441.5 1785.0L439.5 1798.0L435.5 1807.0L427.0 1816.5L421.0 1819.5L409.0 1821.5Z M555.0 1821.5L540.0 1821.5L534.5 1811.0L533.5 1806.0L531.0 1803.5L502.0 1803.5L494.0 1821.5L480.0 1821.5L478.5 1820.0L506.5 1748.0L510.0 1743.5L524.0 1743.5L525.5 1745.0L555.5 1819.0L555.0 1821.5Z M628.0 1821.5L615.0 1821.5L613.5 1820.0L613.5 1758.0L612.0 1756.5L591.0 1756.5L591.0 1744.5L651.0 1743.5L652.5 1745.0L652.5 1755.0L651.0 1756.5L629.5 1757.0L629.5 1820.0L628.0 1821.5Z M762.0 1821.5L748.0 1821.5L745.5 1819.0L741.5 1806.0L739.0 1803.5L710.0 1803.5L702.0 1821.5L687.5 1821.0L688.5 1815.0L708.5 1763.0L714.5 1748.0L718.0 1743.5L732.0 1743.5L733.5 1745.0L762.5 1817.0L763.5 1820.0L762.0 1821.5Z M1094.0 1821.5L1082.0 1821.5L1079.5 1819.0L1079.5 1746.0L1082.0 1743.5L1094.0 1743.5L1095.5 1745.0L1095.5 1820.0L1094.0 1821.5Z M1200.0 1821.5L1142.5 1821.0L1142.5 1745.0L1144.0 1743.5L1194.0 1743.5L1199.5 1745.0L1199.0 1756.5L1159.0 1756.5L1157.5 1758.0L1158.0 1773.5L1189.0 1773.5L1196.5 1775.0L1196.0 1786.5L1159.0 1786.5L1157.5 1788.0L1157.5 1807.0L1159.0 1808.5L1200.0 1808.5L1201.5 1818.0L1200.0 1821.5Z M1307.0 1821.5L1294.0 1821.5L1290.5 1819.0L1262.0 1772.5L1260.5 1773.0L1260.5 1821.0L1248.0 1821.5L1246.5 1820.0L1247.0 1744.5L1259.0 1743.5L1262.5 1745.0L1292.0 1793.5L1293.5 1793.0L1293.5 1745.0L1295.0 1743.5L1306.0 1743.5L1307.5 1745.0L1307.0 1821.5Z M1388.0 1821.5L1375.0 1821.5L1373.5 1820.0L1373.5 1758.0L1372.0 1756.5L1351.0 1756.5L1350.5 1745.0L1353.0 1743.5L1410.0 1743.5L1412.5 1746.0L1412.5 1755.0L1411.0 1756.5L1389.5 1757.0L1389.5 1820.0L1388.0 1821.5Z M1468.0 1821.5L1455.0 1821.5L1453.5 1819.0L1453.5 1745.0L1455.0 1743.5L1468.0 1743.5L1469.5 1745.0L1469.5 1820.0L1468.0 1821.5Z M1652.0 1821.5L1639.0 1821.5L1637.5 1820.0L1637.5 1758.0L1636.0 1756.5L1615.0 1756.5L1615.0 1744.5L1674.0 1743.5L1675.5 1745.0L1676.5 1755.0L1675.0 1756.5L1653.5 1757.0L1653.5 1820.0L1652.0 1821.5Z M410.5 1808.0L418.0 1805.5L421.5 1802.0L423.5 1797.0L423.5 1768.0L421.5 1764.0L413.0 1757.5L394.0 1756.5L391.5 1758.0L392.5 1808.0L410.5 1808.0Z M526.5 1790.0L520.5 1771.0L517.5 1764.0L516.0 1763.5L506.5 1790.0L526.5 1790.0Z M734.5 1790.0L728.5 1771.0L725.5 1764.0L724.0 1763.5L714.5 1790.0L734.5 1790.0Z" />
-</svg>
+        <!-- 헤더와 통일된 최저가 레이더 로고 심볼 -->
+        <svg xmlns="http://www.w3.org/2000/svg" viewBox="0 0 48 48" class="w-10 h-10 sm:w-12 sm:h-12 object-contain shrink-0" fill="none">
+          <!-- 1. 미니멀 볼드 레이더 원형 림 -->
+          <circle cx="24" cy="24" r="20" stroke="#0F172A" stroke-width="3" />
+          <!-- 2. 레이더 외곽 정밀 조준 틱 (절제된 4방위 틱) -->
+          <line x1="24" y1="4" x2="24" y2="8" stroke="#0F172A" stroke-width="2.5" stroke-linecap="round" />
+          <line x1="24" y1="40" x2="24" y2="44" stroke="#0F172A" stroke-width="2.5" stroke-linecap="round" />
+          <line x1="4" y1="24" x2="8" y2="24" stroke="#0F172A" stroke-width="2.5" stroke-linecap="round" />
+          <line x1="40" y1="24" x2="44" y2="24" stroke="#0F172A" stroke-width="2.5" stroke-linecap="round" />
+          <!-- 3. 시원하고 직관적인 가격 급락 트렌드 화살표 (볼드 블랙) -->
+          <path d="M14 18L22 26L27 21L34 32" stroke="#0F172A" stroke-width="3.5" stroke-linecap="round" stroke-linejoin="round" />
+          <polyline points="26 32 34 32 34 24" stroke="#0F172A" stroke-width="3.5" stroke-linecap="round" stroke-linejoin="round" />
+          <!-- 4. 실시간 최저가 록온 포인트 (선명한 코발트 블루) -->
+          <circle cx="34" cy="32" r="3.5" fill="#2563EB" />
+        </svg>
         <div>
           <div class="flex items-center space-x-2 justify-center md:justify-start">
             <span class="text-base sm:text-lg font-black tracking-tight text-slate-900 flex items-center gap-0.5">
